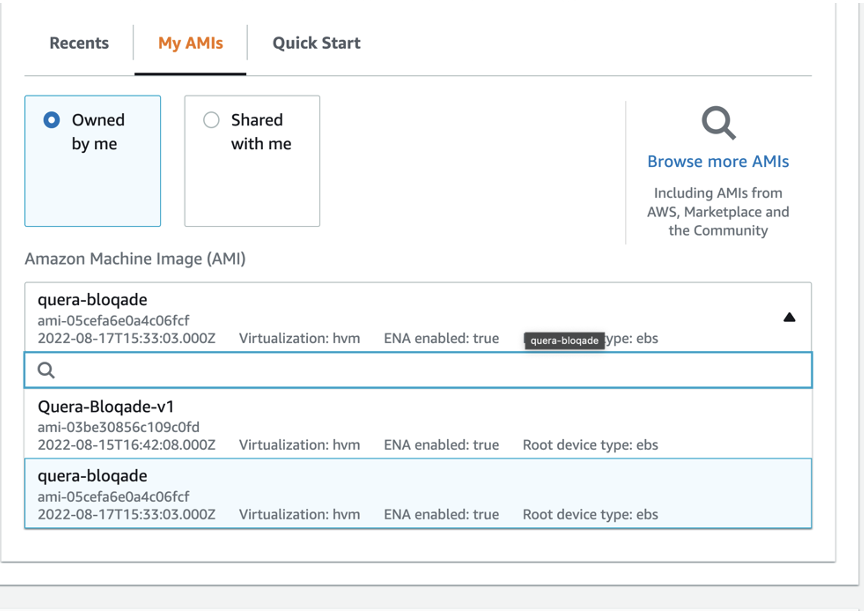
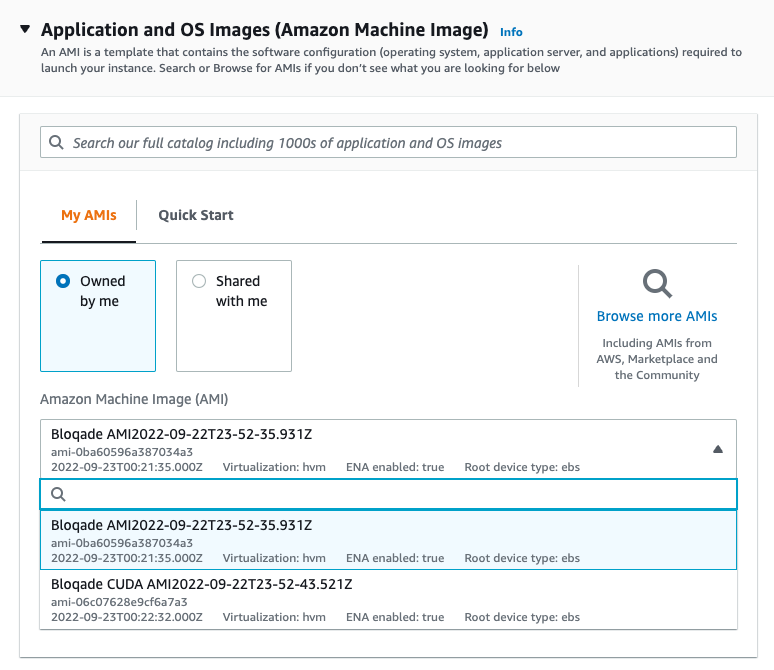
Update AMI Documentation (#422)
Updated relevant screenshots and directions to starting and stopping/terminating Bloqade EC2 instances

diff --git a/docs/src/install.md b/docs/src/install.md
@@ -7,10 +7,10 @@ to install the latest stable version of this package:
 pkg> add Bloqade
 ```
 
-## Low-latency Usage of Bloqade Component Packages
+## Low-Latency Usage of Bloqade Component Packages
 
-The Bloqade project contains multiple packages. For development on top of the functionality,
-(especially for those who do not need the ODE solvers), we recommend you to use the corresponding
+The Bloqade project contains multiple packages. For development on top of functionality,
+(especially for those who do not need the ODE solvers), we recommend you use the corresponding
 component packages. The following is a list of component packages and what they do (WIP = work-in-progress)
 
 - BloqadeExpr: Expressions and API definitions for Bloqade.
@@ -42,113 +42,174 @@ Bloqade package, just add `#master` after the package name, e.g.:
 pkg> add BloqadeExpr#master
 ```
 
-## Using Bloqade with AWS EC2 services
+## Using Bloqade with AWS EC2
 
-Bloqade is an open source solution for Hamiltonian simulation and can be deployed on any personal computer. Yet, some users might benefit from the extra performance offered by large computational resources from different providers. To address that, Bloqade is also available at the Amazon Web Services (AWS) Marketplace, and prepared to run on AWS EC2 instances via Amazon Machine Images. To deploy Bloqade on AWS EC2 instances, follow the 7-step process below.
+Bloqade can be deployed on any personal computer although some users might benefit from the extra performance offered by large computational resources from different providers. To address that, Bloqade is also available on the Amazon Web Services (AWS) Marketplace, and can run on AWS EC2 instances Amazon Machine Images (AMIs). More information about the AMIs and how to deploy them onto EC2 instances can be found below.
 
-- disclaimer 1: deploying Bloqade on AWS EC2 instances will incur a cost on the user that will depend on the AWS resources utilized.  
-- disclaimer 2: support on deploying Bloqade on AWS can be obtained via AWS Support. This is a one-on-one support channel that is staffed 24x7x365 with experienced support engineers. To learn more, follow [this link](https://aws.amazon.com/premiumsupport/).  
+### Bloqade AMIs
 
-### Step-0: Create an EC2 instance on AWS and check location
+There are two AMIs offered by the Bloqade team:
 
-For the general guidelines on launching EC2 instances, check the [AWS EC2 tutorial](https://docs.aws.amazon.com/AWSEC2/latest/UserGuide/EC2_GetStarted.html).
-Bloqade can be run, technically, from any location. Still, its image is installed in servers held in N. Virginia. To get started as easily as possible, ensure to set the  AWS region location to N. Virginia(US-EAST-1)
+#### Bloqade AMI (Base Image)
 
-<img width="745" alt="step0" src="https://user-images.githubusercontent.com/99290010/188176960-0fc2e132-d15c-4c64-90cd-99790a59b6ec.png">
+Built on top of Ubuntu Server 20.04 LTS, this image includes
+- The latest version of Julia and Bloqade
+- [Yao.jl](https://yaoquantum.org/)
+- [Revise.jl](https://github.com/timholy/Revise.jl)
+- [BenchmarkTools.jl](https://juliaci.github.io/BenchmarkTools.jl/stable/)
+- [PythonCall.jl](https://cjdoris.github.io/PythonCall.jl/stable/) 
+- Conda package manager, provided by [Miniconda](https://docs.conda.io/en/latest/miniconda.html) 
 
-### Step-1: Create an EC2 instance on AWS and check location
+#### Bloqade CUDA AMI
 
-Now to really get started. On your AWS account portal, type EC2 on the search bar and access the EC2 service
+Built on top of an Amazon DLAMI (Deep Learning AMI) on Ubuntu 20.04, this AMI includes everything from the Base Image above along with:
 
-<img width="654" alt="step1" src="https://user-images.githubusercontent.com/99290010/188177392-3681ff55-f418-44bd-9569-ee78ad9a272d.png">
+- NVIDIA CUDA
+- cuDNN
+- NCCL
+- GPU Drivers
+- Intel MKL-DNN
+- Docker
+- NVIDIA-Docker
+- EFA support
+- Support for Block devices
 
-### Step-2: Start the launch
+as well as:
 
-Find the "launch instance" button to start running. You may check all the running instances clicking on the pointed button below.
+- [CUDA.jl](https://github.com/JuliaGPU/CUDA.jl)
+- [Adapt.jl](https://github.com/JuliaGPU/Adapt.jl) 
 
-<img width="411" alt="step2" src="https://user-images.githubusercontent.com/99290010/188177745-5c17d7f5-909d-4c72-846d-c724523df313.png">
-
-### Step-3: Name your instance
-
-Type a convenient name for your use...
-
-<img width="771" alt="step3" src="https://user-images.githubusercontent.com/99290010/188178335-69a5bef0-2291-4989-9954-2686d52270ba.png">
-
-### Step-4: Choose an image
-
-...and choose Bloqade as an image. This will pre-install Julia, Bloqade, and Yao (for general quantum gates) on the cluster
-
-<img width="495" alt="step4" src="https://user-images.githubusercontent.com/99290010/188178496-60d68d90-a5f1-42cc-81f5-2cc903496266.png">
-
-### Step-5: Tune your settings
-
-Select the EC2 instance type. Note that your charge rate will be function of these; large RAM charges more. For simple uses, we recommend m2.xlarge as a basic choice.
-
-<img width="568" alt="step5" src="https://user-images.githubusercontent.com/99290010/188178728-f92e959e-a910-4e84-9bb6-b3872ade6cfc.png">
-
-### Step-6: Tune more settings
-
-Select your security group. This depends on your personal, company security operations, or AWS best practices.
-
-<img width="735" alt="step6" src="https://user-images.githubusercontent.com/99290010/188178844-5cc2f714-fe14-4fac-aef9-9432c24ae0dc.png">
-
-### Step-7: Blast off!
-
-Launch your instance and Bloqade away!
-
-<img width="652" alt="step7" src="https://user-images.githubusercontent.com/99290010/188178941-484e5c3d-a457-49c1-8944-e4417e8f820f.png">
-
-### Final comments:
-
-#### Bloqade Optimized AMIs from AWS Marketplace
-The Bloqade team has implemented 2 dedicated AMIs that can be acquired using AWS Marketplace
-
-##### Bloqade AMI with Julia (base image)
-
-The Bloqade AMI contains:
-- The latest Julia installation using `juliaup add release` which setup the latest Julia release. For more information please refer to [Juliaup](https://github.com/JuliaLang/juliaup) 
-- The latest version of Bloqade 
-
-##### Bloqade Optimized Deep Learning AMI with CUDA
-
-In addition to the content of our base image, this image further contains
-- NVIDIA CUDA, cuDNN, NCCL, GPU Drivers, Intel MKL-DNN, Docker, NVIDIA-Docker and EFA support
-- Block devices
+Both of which are needed for Bloqade to take advantage of GPUs (see [GPU Acceleration](@ref cuda) for more on how to do this). 
 
 
-#### SSH Access
+### Disclaimers
+!!! info
+    - Deploying Bloqade on AWS EC2 instances will incur a cost on the user that will depend on the AWS resources utilized.  
+    - Support on deploying Bloqade on AWS can be obtained via AWS Support. This is a one-on-one support channel that is staffed 24x7x365 with experienced support engineers. To learn more, follow [this link](https://aws.amazon.com/premiumsupport/).
 
-- On step 7, a key-pair login may be created for ssh access, if the user does not posses one previously.
-- In this case, it is recommended to access Key pair (login) and click “Create key-pair”. Following the instructions, one may download a `.pem` file which can be added to the user’s `~/.ssh` folder. 
-- Run the following command chmod `400 <yourkey>`
-- Following this process, a Defaul SSH protocol for sign in and security can be used.)
-    * Do so by accessing `vim config` on your shell and typing the following
- <img width="612" alt="image" src="https://user-images.githubusercontent.com/99290010/188179655-dc6e8cbe-bdd0-462b-8d6a-dbd9cfccda7f.png">
-You can find your DNS name  by clicking your instance on the list of running instances in the dashboard, clicking “Connect” and copying the “Public DNS” in the SSH Client tab
+### Step 0: Set Your AWS Region
 
-Then exit vim and type `SSH AWS`
+For general guidelines on launching EC2 instances, check out the [AWS EC2 tutorial](https://docs.aws.amazon.com/AWSEC2/latest/UserGuide/EC2_GetStarted.html).
+Bloqade can technically be run from any location but its images are hosted on servers in AWS' North Virginia (N. Virginia) region. To get started as easily as possible, set your AWS region location to N. Virginia (us-east-1).
 
-#### Other packages
-- Bloqade runs in Julia but if you need to install extra Python packages for your uses, we recommend installing `conda` to manage virtual environments and install packages via `conda install <package>`
-- To install it via command line, follow 
+![Step 0](assets/Bloqade_EC2/Step0.png)
 
-```sh
-mkdir -p ~/miniconda3
-wget https://repo.anaconda.com/miniconda/Miniconda3-latest-Linux-x86_64.sh -O ~/miniconda3/miniconda.sh
-bash ~/miniconda3/miniconda.sh -b -u -p ~/miniconda3
-rm -rf ~/miniconda3/miniconda.sh
+### Step 1: Access the EC2 Service
+
+Now to really get started. On your AWS account portal, type EC2 on the search bar and access the EC2 Service
+
+![Step 1](assets/Bloqade_EC2/Step1.png)
+
+### Step 2: Launch Your Instance
+
+Find the "Launch Instance" button, circled in red, to create one. To see all currently running instances, click the "Instances (running)" button, indicated by the red arrow.
+
+![Step 2](assets/Bloqade_EC2/Step2.png)
+
+### Step 3: Name Your Instance
+
+Give your instance a memorable name...
+
+![Step 3](assets/Bloqade_EC2/Step3.png)
+
+### Step 4: Choose an Image
+
+...and choose Bloqade as an image. This will put the AMI on the instance which has Bloqade and all its dependencies ready to go. Take a look at the [Bloqade AMIs](#bloqade-amis) section of this page for more information on available images.
+
+![Step 4](assets/Bloqade_EC2/Step4.png)
+
+### Step 5: Select Your Instance
+
+Select the EC2 instance type. Note that the rate at which your charged is dependent on which instance you select. Those with larger RAM/power usually charge more. For simple usage, we recommend an `m2.xlarge` instance as a basic choice. If you are looking for GPU support consider the `g4dn.xlarge` instance as a starting point.
+
+More information on available instances and the ability to compare between them you can visit [instances.vantage.sh](https://instances.vantage.sh/).
+
+![Step 5](assets/Bloqade_EC2/Step5.png)
+
+### Step 6: Generate a Key Pair
+
+In order to access your instance from your local machine's terminal you will need to generate a key pair in advance. Click on "Create new key pair" as circled in the image. 
+
+![Step 6.1](assets/Bloqade_EC2/Step6.1.png)
+
+Give your key pair a memorable name and once you have selected your desirable key pair type and file format click "Create key pair".
+
+![Step 6.2](assets/Bloqade_EC2/Step6.2.png)
+
+A download should happen in your browser that gives you your private key. If you are a PuTTY user you will need to import this key into your client. If you are are a Linux/macOS user using an SSH client from the terminal, you should put the key in your `~/.ssh` folder although any other location will work with the caveat being you will have to specify the exact path to the key when invoking `ssh` as an argument to the command.
+
+You will also need to run the following command to set the proper permissions on the private key:
+```bash
+chmod 400 </path/to/your_key>
 ```
 
-You will need to exit out (`Ctrl-D`) of the AWS SSH ran re-log back in (`ssh AWS`) to get `conda` activated.
+After launching your instance there will be two ways you can connect to it, shown in the later steps of this guide.
 
-<!---```
-#/dev/sda1=snap-03d72fbeb983a4663:60:true:gp2
-#/dev/sdb=ephemeral0
-#/dev/sdc=ephemeral1
-``` --->
+### Step 7: Tune Your Instance Some More
+
+Select your security group. This depends on either your personal setup, company security practices, or AWS best practices.
+
+![Step 7](assets/Bloqade_EC2/Step7.png)
+
+### Step 8: Blast Off!
+
+Launch your instance!
+
+![Step 8.1](assets/Bloqade_EC2/Step8.1.png)
+
+You should be presented with the following screen:
+
+![Step 8.2](assets/Bloqade_EC2/Step8.2.png)
+
+If you click on the instance hyperlink or the "View all instances" button, you'll be brought to the Instances page which shows all currently running as well as previously terminated/stopped instances. This page is also accessible from EC2 service page, 
+accessible via the directions in [Step 2](#step-2-launch-your-instance).
+
+Select your instance from the "Instances" menu by clicking the checkbox next to the desired instance. A "Connect" button should be clickable in the upper right corner.
+
+![Step 8.3](assets/Bloqade_EC2/Step8.3.png)
+
+This should bring you to a "Connect to instance" page where you can navigate to the "SSH client" section.
+
+![Step 8.4](assets/Bloqade_EC2/Step8.4.png)
+
+From here you have one of two choices to connect with your instance:
+
+!!! warning "Default User Notice"
+    When logging in to your EC2 instance, the recommended user to login as is the `ubuntu` user (the default, non-root user from the Ubuntu base images the Bloqade AMIs are based off of). Using `root` is not advised and unsupported by the Bloqade team. You will notice the "SSH Client" section in the photo above still gives the `ssh -i ...` command with "root" as the username. This must be changed to `ubuntu` IF you intended to use Option 1 below. Option 2 already accounts for this.
+
+#### Option 1: Instant Command Line Access
+
+If you just want to connect to the instance as fast as possible and plan on either:
+
+- Keeping the instance alive for the duration of your work
+- Terminating (the equivalent of completely deleting an instance) and starting new instances frequently
+
+Just copy and paste the example at the very bottom (the command starting with `ssh -i ...`), changing the user to `ubuntu` from `root`. If your key is not located in the `~/.ssh` folder for Linux/macOS users, you will need to either navigate to the folder you have the key stored to in the command line and execute the command there OR specify the full path to the key as the string in front of `-i`. 
+
+
+#### Option 2: OpenSSH Config File
+
+If you plan on reusing the same instance (stopping and starting it, thereby preserving your work on the EBS (Elastic Block Storage), essentially the hard drive of your instance) instance that the EC2 instance uses by default, you can set defaults for signing in by creating (if the file does not exist)/editing (if the file does exist) your OpenSSH `config` found in your `~/.ssh` folder. Just add the following using `vim` or your favorite text editor:
+```
+Host AWS
+    HostName <DNS NAME, ex: ec2-3-93-200-58.compute-1.amazonaws.com>
+    User ubuntu
+    IdentityFile ~/.ssh/<PATH TO YOUR KEY>.pem
+```
+You can find your DNS name by following the steps mentioned in Option 1 but focusing on Step 4, which is "Connect to your instance using its Public DNS".
+
+Upon saving the changes, you should be able to access your instance by running `ssh AWS` in your command line.
+
+### Step 9: Shutting Down Your Instance
+
+In order to shut down your instance, you can return to the "Instances" menu shown in [Step 8](#step-8-blast-off), select your instance, and click the "Instance State" Drop down. 
+
+You can either:
+- Stop your Instance - This preserves any files you may have created working in the instance that were on the EBS but will come at a cost, determinable [here](https://aws.amazon.com/ebs/pricing/). You may reuse the instance by selecting it again in the "Instances" menu and selecting "Start".
+- Terminating your Instance - This does NOT preserve any files and means you will lose any work not transferred off the instance to your local machine. Termination deletes the EBS instance that your instance uses and you will not be charged afterwards for storage.
 
   
-## Build System Image to Accelerate Start-up Time
+## Build System Images to Accelerate Start-up Time
 
 Since Bloqade is a large package, its loading time
 and time-to-first-simulation can be very long.
@@ -161,36 +222,6 @@ To build a system image for your environment, please use
 the [PackageCompiler](https://julialang.github.io/PackageCompiler.jl/dev/)
 or use the Julia VSCode plugin's [build system image feature](https://www.julia-vscode.org/docs/stable/userguide/compilesysimage/)
 
+## Contributing to Bloqade 
 
-## Developing Bloqade
-
-When developing Bloqade, one will need to setup a local environment
-that contains all the local changes. To work with the Bloqade repo,
-first you need to clone this repo
-
-```sh
-# clone this repo
-git clone https://github.com/QuEraComputing/Bloqade.jl.git Bloqade
-# go into the directory
-cd Bloqade
-# dev the corresponding environment
-.ci/run dev
-```
-
-How does this work? The `.ci/run dev` command actually calls the `Pkg.develop`
-command from Julia's package manager. Because we want to use the local
-changes of the package, one will need to `dev` the corresponding package to 
-make the changes happen in your current environment, e.g one will need to `dev` 
-the `lib/BloqadeExpr` package to apply changes in `BloqadeExpr` module.
-
-We also provide a convenient tool to setup this more automatically by
-looking up dependencies in `lib` in one's `Project.toml` file,
-
-```sh
-.ci/run dev <path/to/your/environment>
-```
-
-will `dev` all the Bloqade dependencies in your environment.
-
-See also [Modifying A Dependency](https://pkgdocs.julialang.org/v1/getting-started/#Modifying-A-Dependency)
-for more detailed explainations.
+Please `git clone` this repository to a directory of your choice on your local machine and refer to [Contributing to Bloqade](@ref contrib) to see how to set up your development environment for Bloqade.

diff --git a/docs/src/contrib.md b/docs/src/contrib.md
@@ -1,4 +1,4 @@
-# Contributing to Bloqade
+# [Contributing to Bloqade](@id contrib)
 
 If you are interested in contributing to this package,
 please consider going through this guide to help make your
@@ -68,6 +68,24 @@ This can be done automatically using the CLI tool via:
 ```sh
 .ci/run dev
 ```
+
+How does this work? The `.ci/run dev` command actually calls the `Pkg.develop`
+command from Julia's package manager. Because we want to use the local
+changes of the package, one will need to `dev` the corresponding package to 
+make the changes happen in your current environment, e.g one will need to `dev` 
+the `lib/BloqadeExpr` package to apply changes in `BloqadeExpr` module.
+
+We also provide a convenient tool to setup this more automatically by
+looking up dependencies in `lib` in one's `Project.toml` file,
+
+```sh
+.ci/run dev <path/to/your/environment>
+```
+
+will `dev` all the Bloqade dependencies in your environment.
+
+See also [Modifying A Dependency](https://pkgdocs.julialang.org/v1/getting-started/#Modifying-A-Dependency)
+for more detailed explainations.
 
 ### Create New Examples
 
